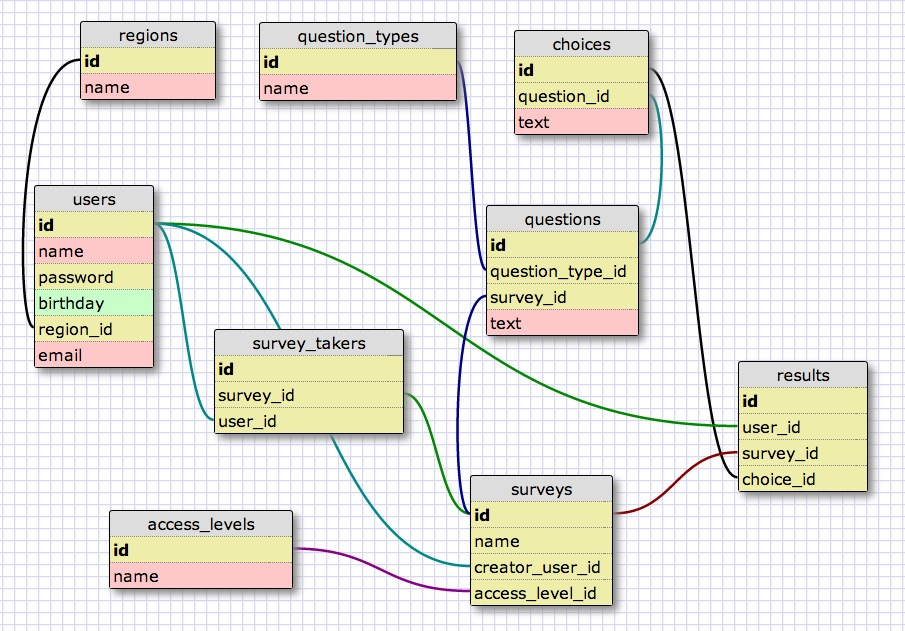
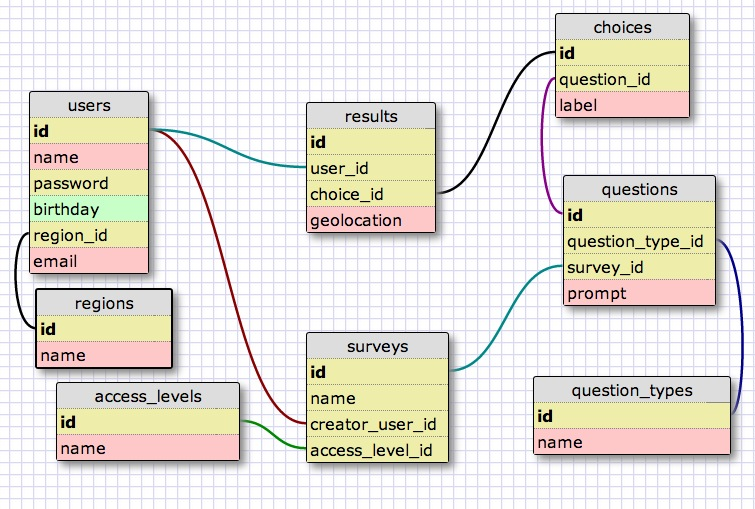
revise schema

diff --git a/db/migrate/20140725114627_create_users_table.rb b/db/migrate/20140725114627_create_users_table.rb
@@ -1,0 +1,14 @@
+class CreateUsersTable < ActiveRecord::Migration
+  def change
+  	create_table :users do |t|
+  		t.string :name
+  		t.string :password_hash
+  		t.date :birthday
+  		t.references :region
+      t.string :email
+  		
+  		t.timestamps
+  	end
+
+  end
+end

diff --git a/db/migrate/20140725115510_create_results_table.rb b/db/migrate/20140725115510_create_results_table.rb
@@ -1,0 +1,13 @@
+class CreateResultsTable < ActiveRecord::Migration
+  def change
+  	create_table :results do |t|
+  		t.references :user
+  		t.references :choice
+  		t.references :survey
+  		t.string :geolocation
+  		
+  		t.timestamps
+  	end
+
+  end
+end

diff --git a/db/migrate/20140725115435_create_questions_table.rb b/db/migrate/20140725115435_create_questions_table.rb
@@ -1,0 +1,12 @@
+class CreateQuestionsTable < ActiveRecord::Migration
+  def change
+  	create_table :questions do |t|
+  		t.references :question_type_id
+  		t.references :survey_id
+  		t.string :prompt
+  		
+  		t.timestamps
+  	end
+
+  end
+end

diff --git a/db/migrate/20140725115502_create_surveys_table.rb b/db/migrate/20140725115502_create_surveys_table.rb
@@ -1,0 +1,12 @@
+class CreateSurveysTable < ActiveRecord::Migration
+  def change
+  	create_table :surveys do |t|
+  		t.string :name
+  		t.references :creator_user
+  		t.references :access_level
+  		
+  		t.timestamps
+  	end
+
+  end
+end

diff --git a/db/migrate/20140725114618_create_choices_table.rb b/db/migrate/20140725114618_create_choices_table.rb
@@ -1,0 +1,11 @@
+class CreateChoicesTable < ActiveRecord::Migration
+  def change
+  	create_table :choices do |t|
+  		t.string :label
+  		t.references :question
+  		
+  		t.timestamps
+  	end
+
+  end
+end

diff --git a/db/migrate/20140725114607_create_question_types_table.rb b/db/migrate/20140725114607_create_question_types_table.rb
@@ -1,0 +1,10 @@
+class CreateQuestionTypesTable < ActiveRecord::Migration
+  def change
+  	create_table :question_types do |t|
+  		t.string :name
+  		
+  		t.timestamps
+  	end
+
+  end
+end

diff --git a/db/migrate/20140725115449_create_access_levels_table.rb b/db/migrate/20140725115449_create_access_levels_table.rb
@@ -1,0 +1,10 @@
+class CreateAccessLevelsTable < ActiveRecord::Migration
+  def change
+  	create_table :access_levels do |t|
+  		t.string :name
+  		
+  		t.timestamps
+  	end
+
+  end
+end

diff --git a/db/migrate/20140725114556_create_regions_table.rb b/db/migrate/20140725114556_create_regions_table.rb
@@ -1,0 +1,9 @@
+class CreateRegionsTable < ActiveRecord::Migration
+  def change
+  	create_table :regions do |t|
+  		t.string :name
+  		
+  		t.timestamps
+  	end
+  end
+end

diff --git a/schema.md b/schema.md
@@ -62,7 +62,7 @@
 <part>id</part>
 </key>
 </table>
-<table x="72" y="92" name="regions">
+<table x="41" y="382" name="regions">
 <row name="id" null="1" autoincrement="1">
 <datatype>INTEGER</datatype>
 <default>NULL</default></row>
@@ -73,7 +73,7 @@
 <part>id</part>
 </key>
 </table>
-<table x="215" y="93" name="question_types">
+<table x="438" y="451" name="question_types">
 <row name="id" null="1" autoincrement="1">
 <datatype>INTEGER</datatype>
 <default>NULL</default></row>
@@ -84,7 +84,7 @@
 <part>id</part>
 </key>
 </table>
-<table x="384" y="455" name="surveys">
+<table x="257" y="416" name="surveys">
 <row name="id" null="1" autoincrement="1">
 <datatype>INTEGER</datatype>
 <default>NULL</default></row>
@@ -103,23 +103,7 @@
 <part>id</part>
 </key>
 </table>
-<table x="179" y="338" name="survey_takers">
-<row name="id" null="1" autoincrement="1">
-<datatype>INTEGER</datatype>
-<default>NULL</default></row>
-<row name="survey_id" null="1" autoincrement="0">
-<datatype>INTEGER</datatype>
-<default>NULL</default><relation table="surveys" row="id" />
-</row>
-<row name="user_id" null="1" autoincrement="0">
-<datatype>INTEGER</datatype>
-<default>NULL</default><relation table="users" row="id" />
-</row>
-<key type="PRIMARY" name="">
-<part>id</part>
-</key>
-</table>
-<table x="397" y="239" name="questions">
+<table x="462" y="290" name="questions">
 <row name="id" null="1" autoincrement="1">
 <datatype>INTEGER</datatype>
 <default>NULL</default></row>
@@ -131,14 +115,14 @@
 <datatype>INTEGER</datatype>
 <default>NULL</default><relation table="surveys" row="id" />
 </row>
-<row name="text" null="1" autoincrement="0">
+<row name="prompt" null="1" autoincrement="0">
 <datatype>MEDIUMTEXT</datatype>
 <default>NULL</default></row>
 <key type="PRIMARY" name="">
 <part>id</part>
 </key>
 </table>
-<table x="419" y="99" name="choices">
+<table x="456" y="161" name="choices">
 <row name="id" null="1" autoincrement="1">
 <datatype>INTEGER</datatype>
 <default>NULL</default></row>
@@ -146,14 +130,14 @@
 <datatype>INTEGER</datatype>
 <default>NULL</default><relation table="questions" row="id" />
 </row>
-<row name="text" null="1" autoincrement="0">
+<row name="label" null="1" autoincrement="0">
 <datatype>MEDIUMTEXT</datatype>
 <default>NULL</default></row>
 <key type="PRIMARY" name="">
 <part>id</part>
 </key>
 </table>
-<table x="598" y="364" name="results">
+<table x="257" y="232" name="results">
 <row name="id" null="1" autoincrement="1">
 <datatype>INTEGER</datatype>
 <default>NULL</default></row>
@@ -161,19 +145,18 @@
 <datatype>INTEGER</datatype>
 <default>NULL</default><relation table="users" row="id" />
 </row>
-<row name="survey_id" null="1" autoincrement="0">
-<datatype>INTEGER</datatype>
-<default>NULL</default><relation table="surveys" row="id" />
-</row>
 <row name="choice_id" null="1" autoincrement="0">
 <datatype>INTEGER</datatype>
 <default>NULL</default><relation table="choices" row="id" />
 </row>
+<row name="geolocation" null="1" autoincrement="0">
+<datatype>MEDIUMTEXT</datatype>
+<default>NULL</default></row>
 <key type="PRIMARY" name="">
 <part>id</part>
 </key>
 </table>
-<table x="95" y="483" name="access_levels">
+<table x="57" y="456" name="access_levels">
 <row name="id" null="1" autoincrement="1">
 <datatype>INTEGER</datatype>
 <default>NULL</default></row>
@@ -185,6 +168,7 @@
 </key>
 </table>
 </sql>
+
 
 
 ```
